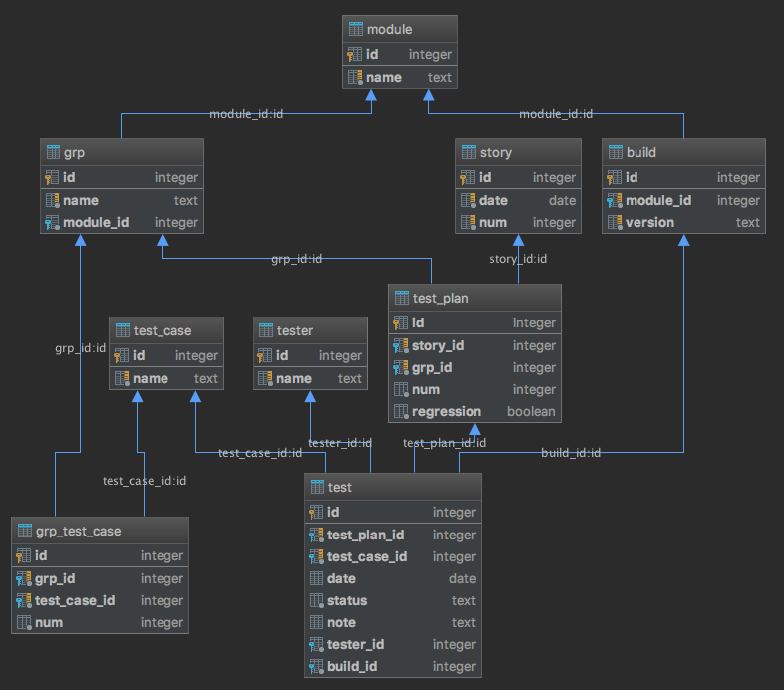
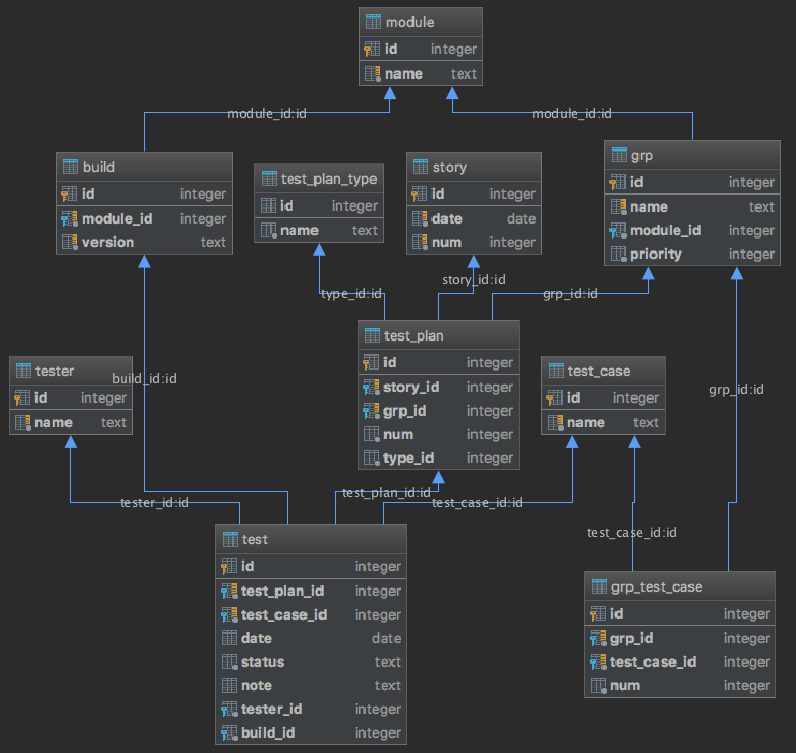
model changes

diff --git a/src/main/java/com/sergeykotov/testcasemanager/model/TestPlan.java b/src/main/java/com/sergeykotov/testcasemanager/model/TestPlan.java
@@ -7,21 +7,21 @@ public final class TestPlan {
     private Story story;
     private Group group;
     private int num;
-    private boolean regression;
+    private TestPlanType testPlanType;
 
-    public TestPlan(Story story, Group group, int num, boolean regression) {
+    public TestPlan(Story story, Group group, int num, TestPlanType testPlanType) {
         this.story = story;
         this.group = group;
         this.num = num;
-        this.regression = regression;
+        this.testPlanType = testPlanType;
     }
 
-    public TestPlan(Long id, Story story, Group group, int num, boolean regression) {
+    public TestPlan(Long id, Story story, Group group, int num, TestPlanType testPlanType) {
         this.id = id;
         this.story = story;
         this.group = group;
         this.num = num;
-        this.regression = regression;
+        this.testPlanType = testPlanType;
     }
 
     public Long getId() {
@@ -52,12 +52,12 @@ public final class TestPlan {
         this.num = num;
     }
 
-    public boolean isRegression() {
-        return regression;
+    public TestPlanType getTestPlanType() {
+        return testPlanType;
     }
 
-    public void setRegression(boolean regression) {
-        this.regression = regression;
+    public void setTestPlanType(TestPlanType testPlanType) {
+        this.testPlanType = testPlanType;
     }
 
     @Override
@@ -75,6 +75,6 @@ public final class TestPlan {
 
     @Override
     public String toString() {
-        return story + " " + group;
+        return story + " " + group + " " + testPlanType;
     }
 }

diff --git a/src/main/java/com/sergeykotov/testcasemanager/model/TestPlanType.java b/src/main/java/com/sergeykotov/testcasemanager/model/TestPlanType.java
@@ -2,35 +2,21 @@ package com.sergeykotov.testcasemanager.model;
 
 import java.util.Objects;
 
-public final class Group {
+public class TestPlanType {
     private Long id;
-    private Module module;
     private String name;
-    private int priority;
 
-    public Group(Module module, String name, int priority) {
-        this.module = module;
+    public TestPlanType(String name) {
         this.name = name;
-        this.priority = priority;
     }
 
-    public Group(Long id, Module module, String name, int priority) {
+    public TestPlanType(Long id, String name) {
         this.id = id;
-        this.module = module;
         this.name = name;
-        this.priority = priority;
     }
 
     public Long getId() {
         return id;
-    }
-
-    public Module getModule() {
-        return module;
-    }
-
-    public void setModule(Module module) {
-        this.module = module;
     }
 
     public String getName() {
@@ -41,20 +27,12 @@ public final class Group {
         this.name = name;
     }
 
-    public int getPriority() {
-        return priority;
-    }
-
-    public void setPriority(int priority) {
-        this.priority = priority;
-    }
-
     @Override
     public boolean equals(Object o) {
         if (this == o) return true;
         if (o == null || getClass() != o.getClass()) return false;
-        Group group = (Group) o;
-        return Objects.equals(group.name, name);
+        TestPlanType that = (TestPlanType) o;
+        return Objects.equals(name, that.name);
     }
 
     @Override
